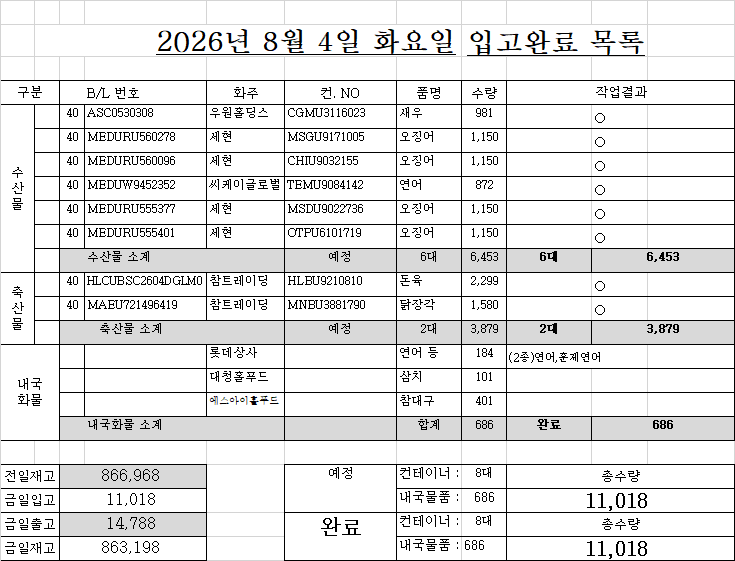
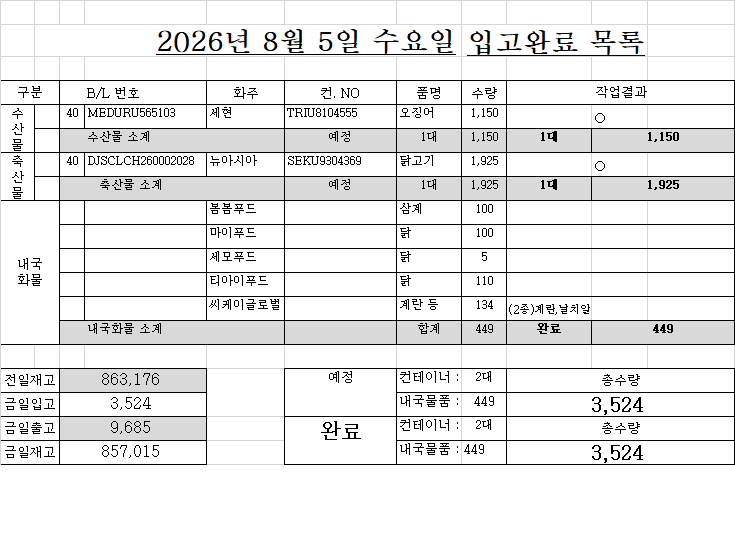
0805

diff --git a/list.html b/list.html
@@ -171,83 +171,91 @@
 <!-- ★★★★★★ 따로 빼 놔야한다. 복붙하면 첫칸 비어도 되는데, 여기서는 첫칸비우면 당겨진다. -->
 <!-- ★ 엑셀범위를 브라우저 textarea에 붙여넣으면 첫셀 비어도 제대로 되는데... HTML에 붙여놓은 자료는 처음셀이 비어있으면 당겨짐 -->
 <div class="d-none" id="원본text_리스트1부터w요약열까지">작성	면허	B/LNO.	화주	컨테이너NO.	품명	수량	반입NO.	입항일	구분	도착일	도착시간	구분	운도VBA	04/27 월 07:21	화찰BL	화찰 선명	화물관리번호	화찰수량	화찰중량	화찰입항	리스트시트기준열	
-1	○	MEDURU565103	세현	TRIU8104555	오징어	1,150 		8/4	1				.PNIT	면허?, CY : 부산신항국제터미널(주), 컨진행 : 입항적재화물목록 운항정보 정정, 선사 : 엠에스씨코리아(주)	MEDURU565103	MSC CHIYO	26MSCU6223I-0062-	1,150 	24,760.00 	2026.08.04	08/04 화 17:05	
-1	○	DJSCLCH260002028	뉴아시아	SEKU9304369	닭고기	1,925 		8/3	2						DJSCLCH260002028	STARSHIP URSA	26NSSLG127I-5003-	1,925 	24,640.00 	2026.08.03	조회정보	
-2	○	COSU6500880930	포쉐프	SZLU9222362	베이컨	1,918 		8/5	2				.BNCT	면허?, CY : (주)비엔씨티(CY), 컨진행 : 입항적재화물목록 심사완료, 선사 : 코스코쉬핑라인스 한국 주식회사	COSU6500880930	SEASPAN HARMONY	26COSU0067I-3006-	1,918 	17,205.84 	2026.08.05	적재	57
-		AO6503164570	GK교역	OERU4528980	오징어	1,150 		8/1	1				.확인안함								4,617 	3줄
-		KMTCLCH5714614	뉴아시아	FBIU5377443	닭다리살	1,925 		8/1	2				.허치슨감만								6,156 	4줄
-		DJSCBKK260001627	뉴아시아	SEKU9303871	닭날개	1,950 		8/3	2				.허치슨감만	면허?, CY : 한국허치슨터미널(주), 컨진행 : 반입완료, 선사 : 장금상선(주)	DJSCBKK260001627	SAWASDEE SUNRISE	26SNKO2815I-5002-	1,950 	24,453.00 	2026.08.03	7,695 	5줄
-		HDMUSAOA77702501	씨제이프레시웨이㈜	HDMU5587572	닭다리살	1,960 		8/4	2				.HPNT	면허?, CY : 에이치엠엠피에스에이신항만(주), 컨진행 : 입항적재화물목록 운항정보 정정, 선사 : 에이치엠엠(주)	HDMUSAOA77702501	HYUNDAI HONGKONG	26HDMUA405I-0034-	1,960 	24,500.00 	2026.08.04	9,234 	6줄
-		COSU650049282	씨제이프레시웨이㈜	OERU4011379	닭다리살	1,960 		8/4	2				.BNCT								구분	대수
-		ONEYBKKGP0840900	참트레이딩	ONEU9012020	닭발	1,794 		8/4	2				.허치슨감만								출고입고	4주간
-		SNG0512709	(유)SM무역	CXRU1539646	오징어	1,200 		8/6	1				.BNCT								1일 7/5	9바닥줄
-		YMJAC949016871	세현	OTPU6466506	오징어	1,150 		8/6	1				.DGT								13,418 	8.7
-		MEDUWE190873	수월한	SZLU9037575	닭발	1,566 		8/6	2				.확인안함								15,579 	10.1
-		HDMUBKKA81833500	주식회사 뉴아시아 (동일)	HMMU5498344	닭날개	1,950 		8/6	2				?????,HPNT			HMM HARMONY					내국제외	
-		DJSCSGN260004159	씨코스트	SZLU2070334		869 		8/7	1				?????,BPT신선대			SAWASDEE RIGEL					구분	대수
-		NSSLBKBSC2600384	주식회사 뉴아시아 (동일)	BEAU9717767	미들윙30/45G	1,950 		8/7	2				?????,허치슨감만			STARSHIP AQUILA					수산	26 
-		NSSLBKBSC2600388	주식회사 뉴아시아 (동일)	SEKU9348773	윙스틱45/55G	1,950 		8/7	2				?????,허치슨감만			STARSHIP AQUILA					축산	51 
-		MAEUJBS317232	㈜이마트	MNBU4636170	닭다리살			8/7	2				.PNC			SKAGEN MAERSK					합계	77 
-		MEDUHI870856	수월한	TTNU8200425	닭다리살	1,958 		8/8	2				.확인안함									
-		MAEUJBS318853	수월한 주식회사	MNBU4474716	SR다리살	1,958 		8/8	2				.PNC			MAERSK VARNA					화주	대수
-		ONEYSAOG31882301	씨제이프레시웨이㈜	CXRU1350523	AU다리살	1,960 		8/8	2				.HPNT			ONE HANOI 					경태.19대	19
-		TC826071238F	우원홀딩스	WHLU7429430	새우	1,306 		8/8	1			20	(완하이).BPT감만								수월한	10
-		MEDUR3280373	㈜이마트	TEMU9314040	닭다리살			8/8	2				.PNC			MSC AURIGA					참트레이딩	7
-		MEDUR3289283	㈜이마트	MEDU9002624	닭다리살			8/8	2				.PNC			MSC AURIGA					수월한 주식회사	6
-		MAEUJBS318135	㈜이마트	MNBU3940194	닭다리살			8/8	2				.PNC			MAERSK SALTORO					뉴아시아	4
-		MAEU721415127	참트레이딩	MNBU3401340	닭장각	1,580 		8/8	2				.PNC								㈜이마트	4
-		MAEU721496408	참트레이딩	MNBU4300951	닭장각	1,580 		8/8	2				.PNC								주식회사 뉴아시아 (동일)	3
-		MAEU721496410	참트레이딩	MNBU0457330	닭장각	1,580 		8/8	2				.PNC								씨제이프레시웨이㈜	3
-		MAEU721496412	참트레이딩	SUDU6216151	닭장각	1,580 		8/8	2				.PNC								대성무역	3
-		MEDUHI880251	현대코퍼	MSGU9160743	닭다리살	1,916 		8/8	2				.확인안함								세현	2
-		MEDUHI880244	현대코퍼	MSDU9739310	닭다리살	1,916 		8/8	2				.확인안함								주식회사 뉴아시아 (수월한)	2
-		MEDUHI880251	현대코퍼레이션홀딩스㈜경기지사	MSDU9160743	LA다리살	1,916 		8/8	2				?????,확인안함			ONE MAGDALENA					현대코퍼	2
-		MAEUJBS320444	수월한	MNBU4096508	닭다리살	1,943 		8/10	2				.확인안함								마이푸드	2
-		HLCUPN4260375116	대상 주식회사	HLBU9527960	닭발	1,567 		8/11	2				.PNIT								GK교역	1
-		COSU6502721570	경태.19대	OERU4017166	오징어	1,210 		8/12	1				.BNCT								현대코퍼레이션홀딩스㈜경기지사	1
-		COSU6502721570	경태.19대	SEGU9970000	오징어	1,210 		8/12	1				.BNCT								대상 주식회사	1
-		COSU6502721570	경태.19대	OERU4306180	오징어	1,210 		8/12	1				.BNCT								씨코스트	1
-		COSU6502721570	경태.19대	SEGU9693820	오징어	1,210 		8/12	1				.BNCT								아스트로스	1
-		COSU6502721570	경태.19대	FBIU5579845	오징어	1,210 		8/12	1				.BNCT								씨케이글로벌	1
-		COSU6502721570	경태.19대	OERU4067969	오징어	1,210 		8/12	1				.BNCT								(유)SM무역	1
-		COSU6502721570	경태.19대	DFOU6135743	오징어	943 		8/12	1				.BNCT								포쉐프	1
-		COSU6502721570	경태.19대	OTPU6007256	오징어	1,210 		8/12	1				.BNCT								주식회사 아스트로스	1
-		COSU6502721570	경태.19대	OERU4288213	오징어	1,210 		8/12	1				.BNCT								우원홀딩스	1
-		COSU6502721570	경태.19대	OERU4369336	오징어	1,210 		8/12	1				.BNCT									
-		COSU6502721570	경태.19대	FBIU5348337	오징어	1,210 		8/12	1				.BNCT									
-		COSU6502721570	경태.19대	OERU4240668	오징어	1,210 		8/12	1				.BNCT									
-		COSU6502721570	경태.19대	SZLU9660292	오징어	1,210 		8/12	1				.BNCT									
-		COSU6502721570	경태.19대	FBIU5005512	오징어	1,210 		8/12	1				.BNCT									
-		COSU6502721570	경태.19대	TEMU9308392	오징어	1,210 		8/12	1				.BNCT									
-		COSU6502721570	경태.19대	TEMU9322873	오징어	1,210 		8/12	1				.BNCT									
-		COSU6502721570	경태.19대	SEGU9972086	오징어	1,210 		8/12	1				.BNCT									
-		COSU6502721570	경태.19대	SZLU9378463	오징어	1,210 		8/12	1				.BNCT									
-		COSU6502721570	경태.19대	SZLU9390833	오징어	1,210 		8/12	1				.BNCT									
-		HDMUSAOA08856500	수월한 주식회사	HMMU5484382	SR다리살	1,956 		8/14	2				.HPNT			HMM SKY						
-		HDMUSAOA54802701	아스트로스	HDMU5611576	닭다리살	1,960 		8/14	2				.HPNT									
-		MAEU721496424	참트레이딩	MNBU0613114	닭장각	1,580 		8/15	2				.PNC									
-		MAEU721515608	참트레이딩	MNBU0262719	닭장각	1,580 		8/15	2				.PNC									
-		ONEYRICGR5090700	씨케이글로벌	ONEU9254527	북방대합	1,500 		8/17	1													
+1	○	DJSCLCH260002232	뉴아시아	SEKU9304918	닭날개	1,925 		8/3	2				ACE.BPT신선대		DJSCLCH260002232	STARSHIP URSA	26NSSLG127I-5007-	1,925 	24,640.00 	2026.08.03	08/05 수 16:16	
+1	○	HDMUSAOA22339100	마이푸드	TLLU1089010	닭장각	1,580 		8/4	2				EZ신항.HPNT	면허?, CY : 에이치엠엠피에스에이신항만(주), 컨진행 : 반입완료, 선사 : 에이치엠엠(주)	HDMUSAOA22339100	HYUNDAI HONGKONG	26HDMUA405I-0115-	1,580 	24,600.00 	2026.08.04	조회정보	
+1		HDMUSAOA77702501	씨제이프레시웨이㈜	HDMU5587572	닭다리살	1,960 		8/4	2				동원오더.HPNT	면허?, CY : 에이치엠엠피에스에이신항만(주), 컨진행 : 반입완료, 선사 : 에이치엠엠(주)	HDMUSAOA77702501	HYUNDAI HONGKONG	26HDMUA405I-0034-	1,960 	24,500.00 	2026.08.04	적재	57
+1	○	COSU6500880930	포쉐프	SZLU9222362	베이컨	1,918 		8/5	2				금경.BNCT	(주)제이트랜스, CY : (주)비엔씨티(CY), 컨진행 : 하선신고 수리완료, 선사 : 코스코쉬핑라인스 한국 주식회사	COSU6500880930	SEASPAN HARMONY	26COSU0067I-3006-	1,918 	17,205.84 	2026.08.05	4,617 	3줄
+2	○	ONEYBKKGP0840900	참트레이딩	ONEU9012020	닭발	1,794 		8/6	2				.허치슨감만	면허?, CY : 한국허치슨터미널(주), 컨진행 : 입항적재화물목록 심사완료, 선사 : 양밍한국(주)	ONEYBKKGP0840900	YM COOPERATION	26YMJA0119I-5049-	1,794 	22,604.40 	2026.08.06	6,156 	4줄
+		AO6503164570	GK교역	OERU4528980	오징어	1,150 		8/1	1				.확인안함								7,695 	5줄
+		KMTCLCH5714614	뉴아시아	FBIU5377443	닭다리살	1,925 		8/1	2				.허치슨감만								9,234 	6줄
+		DJSCBKK260001627	뉴아시아	SEKU9303871	닭날개	1,950 		8/3	2				.허치슨감만	면허?, CY : 한국허치슨터미널(주), 컨진행 : 반입완료, 선사 : 장금상선(주)	DJSCBKK260001627	SAWASDEE SUNRISE	26SNKO2815I-5002-	1,950 	24,453.00 	2026.08.03	구분	대수
+		DJSCLCH260002031	뉴아시아	OTPU6564267	닭다리살	1,925 		8/3	2				.BPT감만	면허?, CY : 신선대감만터미널(주) 감만CY, 컨진행 : 반입완료, 선사 : 범주해운(주)	DJSCLCH260002031	PANCON BRIDGE	26PCLUBK10I-5002-	1,925 	24,640.00 	2026.08.03	출고입고	4주간
+		KMTCLCH5727367	뉴아시아	FBIU5376128	닭날개	1,925 		8/5	2				.BPT신선대	면허?, CY : 신선대감만터미널(주) 신선대CY, 컨진행 : 항내 정박장소 이동신고, 선사 : 장금상선(주)	KMTCLCH5727367	SAWASDEE RIGEL	26SNKO2876I-0008-	1,925 	24,640.00 	2026.08.05	1일 7/5	9바닥줄
+		MEDUR3299761	마이푸드	MSDU9759235	닭다리살	1,939 		8/5	2				.PNIT	면허?, CY : 부산신항국제터미널(주), 컨진행 : 입항적재화물목록 운항정보 정정, 선사 : 엠에스씨코리아(주)	MEDUR3299761	MSC AURIGA	26MSCU3248I-0019-	1,939 	24,277.39 	2026.08.05	13,382 	8.7
+		DJSCSGN260004159	씨코스트	SZLU2070334		869 		8/5	1				.BPT신선대	면허?, CY : 신선대감만터미널(주) 신선대CY, 컨진행 : 항내 정박장소 이동신고, 선사 : 장금상선(주)	DJSCSGN260004159	SAWASDEE RIGEL	26SNKO2876I-5201-	869 	10,119.76 	2026.08.05	14,869 	9.7
+		MEDUR3280373	㈜이마트	TEMU9314040	닭다리살	1,958 		8/5	2				.PNIT	면허?, CY : 부산신항국제터미널(주), 컨진행 : 입항적재화물목록 운항정보 정정, 선사 : 엠에스씨코리아(주)	MEDUR3280373	MSC AURIGA	26MSCU3248I-0006-	1,958 	24,450.73 	2026.08.05	내국제외	
+		MEDUR3289283	㈜이마트	MEDU9002624	닭다리살	1,958 		8/5	2				.PNIT	면허?, CY : 부산신항국제터미널(주), 컨진행 : 입항적재화물목록 운항정보 정정, 선사 : 엠에스씨코리아(주)	MEDUR3289283	MSC AURIGA	26MSCU3248I-0007-	1,958 	24,450.69 	2026.08.05	구분	대수
+		EGLV001600300951	바다사랑	EMCU5702780	오징어	1,340 		8/6	1				.BCT								수산	30 
+		YMJAC949016871	세현	OTPU6466506	오징어	1,150 		8/6	1				.DGT	면허?, CY : 동원글로벌터미널부산(주), 컨진행 : 입항적재화물목록 제출, 선사 : 양밍한국(주)	YMJAC949016871	YM SUCCESS	26YMJA0118I-4001-	1,150 	24,890.00 	2026.08.06	축산	55 
+		MEDUWE190873	수월한	SZLU9037575	닭발	1,566 		8/6	2				.확인안함								합계	85 
+		TC826071305F	우원홀딩스	SKRU2500689	새우	800 		8/6	1			20	(흥아).BPT신선대	면허?, CY : 신선대감만터미널(주) 신선대CY, 컨진행 : 하선신고 수리완료, 선사 : 범주해운(주), 포딩 : 주식회사 엠앤씨엘	TC826071305F	PANCON CHAMPION	26PCLUCK07I-1001-0001	800 	9,920.00 	2026.08.06		
+		SNG0512709	(유)SM무역	CXRU1539646	오징어	1,200 		8/7	1				.BNCT								화주	대수
+		XMN6A1459600	CHC	FBIU5801588		1,800 		8/7	1				?????(SM),허치슨감만			SM TOKYO					경태.19대	19
+		HDMUSGNA40146300	우원홀딩스	TEXU9030290	새우	752 		8/7	1			20	.HPNT								수월한	11
+		HDMUBKKA81833500	주식회사 뉴아시아 (동일)	HMMU5498344	닭날개	1,950 		8/7	2				.HPNT			HMM HARMONY					참트레이딩	7
+		KMTCLCH5720645	뉴아시아	FBIU5945477	닭날개	1,940 		8/8	2				.허치슨감만								수월한 주식회사	6
+		MAEUJBS318853	수월한 주식회사	MNBU4474716	SR다리살	1,958 		8/8	2				.PNC			MAERSK VARNA					뉴아시아	6
+		TC826071295F	우원홀딩스	SZLU2048813	새우	1,000 		8/8	1			20	(인터아시).BPT감만								㈜이마트	4
+		NSSLBKBSC2600384	주식회사 뉴아시아 (동일)	BEAU9717767	미들윙30/45G	1,950 		8/8	2				.허치슨감만			STARSHIP AQUILA					우원홀딩스	4
+		NSSLBKBSC2600388	주식회사 뉴아시아 (동일)	SEKU9348773	윙스틱45/55G	1,950 		8/8	2				.허치슨감만			STARSHIP AQUILA					대성무역	4
+		MEDUHI880251	현대코퍼	MSDU9160743	닭다리살	1,916 		8/8	2				.확인안함								주식회사 뉴아시아 (동일)	3
+		MEDUHI870856	수월한	TTNU8200425	닭다리살	1,958 		8/9	2				.PNC								씨제이프레시웨이㈜	3
+		ONEYSAOG31882301	씨제이프레시웨이㈜	CXRU1350523	AU다리살	1,960 		8/9	2				.HPNT			ONE HANOI 					주식회사 뉴아시아 (수월한)	2
+		TC826071238F	우원홀딩스	WHLU7429430	새우	1,306 		8/9	1			20	(완하이).BPT감만								마이푸드	2
+		MAEUJBS317232	㈜이마트	MNBU4636170	닭다리살			8/9	2				.PNC			SKAGEN MAERSK					현대코퍼	2
+		MEDUHI880244	현대코퍼	MSDU9739310	닭다리살	1,916 		8/9	2				.PNC								CHC	1
+		MEDUHI880251	현대코퍼레이션홀딩스㈜경기지사	MSDU9160743	LA다리살	1,916 		8/9	2				.PNC			ONE MAGDALENA					포쉐프	1
+		MAEU721415127	참트레이딩	MNBU3401340	닭장각	1,580 		8/10	2				.PNC								바다사랑	1
+		COSU650049282	씨제이프레시웨이㈜	OERU4011379	닭다리살	1,960 		8/13	2				.BNCT								세현	1
+		MAEUJBS318135	㈜이마트	MNBU3940194	닭다리살			8/13	2				.PNC			MAERSK SALTORO					현대코퍼레이션홀딩스㈜경기지사	1
+		MAEU721496408	참트레이딩	MNBU4300951	닭장각	1,580 		8/13	2				.PNC								대상 주식회사	1
+		MAEU721496410	참트레이딩	MNBU0457330	닭장각	1,580 		8/13	2				.PNC								아스트로스	1
+		MAEU721496412	참트레이딩	SUDU6216151	닭장각	1,580 		8/13	2				.PNC								씨케이글로벌	1
+		HLCUPN4260375116	대상 주식회사	HLBU9527960	닭발	1,567 		8/14	2				.PNIT								GK교역	1
+		HDMUSAOA54802701	아스트로스	HDMU5611576	닭다리살	1,960 		8/14	2				.HPNT								씨코스트	1
+		MAEU721496424	참트레이딩	MNBU0613114	닭장각	1,580 		8/15	2				.PNC								(유)SM무역	1
+		MAEU721515608	참트레이딩	MNBU0262719	닭장각	1,580 		8/15	2				.PNC								주식회사 아스트로스	1
+		ONEYRICGR5090700	씨케이글로벌	ONEU9254527	북방대합	1,500 		8/18	1				.HJNC									
 		MAEUJBS320701	수월한	MNBU0207408	닭다리살	1,958 		8/21	2				.PNC									
 		MEDUWE206646	주식회사 뉴아시아 (수월한)	TEMU9315473	닭다리살	1,870 		8/21	2				.확인안함			MSC SHREYA B						
 		MEDUWE206612	주식회사 뉴아시아 (수월한)	MEDUWE206612	닭다리살	1,939 		8/21	2				.확인안함			MSC SHREYA B						
-		HDMUSAOA83445311	대성무역	HMMU5495793	닭장각	1,568 		8/29	2				.확인안함									
-		MEDUHI943216	수월한	CHIU9032957	닭다리살	1,958 		8/29	2				.확인안함									
-		MEDUHI943208	수월한	SZLU9590024	닭다리살	1,939 		8/29	2				.확인안함									
+		COSU6502721570	경태.19대	OERU4017166	오징어	1,210 		8/22	1				.BNCT									
+		COSU6502721570	경태.19대	SEGU9970000	오징어	1,210 		8/22	1				.BNCT									
+		COSU6502721570	경태.19대	OERU4306180	오징어	1,210 		8/22	1				.BNCT									
+		COSU6502721570	경태.19대	SEGU9693820	오징어	1,210 		8/22	1				.BNCT									
+		COSU6502721570	경태.19대	FBIU5579845	오징어	1,210 		8/22	1				.BNCT									
+		COSU6502721570	경태.19대	OERU4067969	오징어	1,210 		8/22	1				.BNCT									
+		COSU6502721570	경태.19대	DFOU6135743	오징어	943 		8/22	1				.BNCT									
+		COSU6502721570	경태.19대	OTPU6007256	오징어	1,210 		8/22	1				.BNCT									
+		COSU6502721570	경태.19대	OERU4288213	오징어	1,210 		8/22	1				.BNCT									
+		COSU6502721570	경태.19대	OERU4369336	오징어	1,210 		8/22	1				.BNCT									
+		COSU6502721570	경태.19대	FBIU5348337	오징어	1,210 		8/22	1				.BNCT									
+		COSU6502721570	경태.19대	OERU4240668	오징어	1,210 		8/22	1				.BNCT									
+		COSU6502721570	경태.19대	SZLU9660292	오징어	1,210 		8/22	1				.BNCT									
+		COSU6502721570	경태.19대	FBIU5005512	오징어	1,210 		8/22	1				.BNCT									
+		COSU6502721570	경태.19대	TEMU9308392	오징어	1,210 		8/22	1				.BNCT									
+		COSU6502721570	경태.19대	TEMU9322873	오징어	1,210 		8/22	1				.BNCT									
+		COSU6502721570	경태.19대	SEGU9972086	오징어	1,210 		8/22	1				.BNCT									
+		COSU6502721570	경태.19대	SZLU9378463	오징어	1,210 		8/22	1				.BNCT									
+		COSU6502721570	경태.19대	SZLU9390833	오징어	1,210 		8/22	1				.BNCT									
+		HDMUSAOA83445311	대성무역	HMMU5495793	닭장각	1,568 		8/24	2				.확인안함									
+		MAEUJBS320444	수월한	MNBU4096508	닭다리살	1,943 		8/24	2				.확인안함									
+		HDMUSAOA08856500	수월한 주식회사	HMMU5484382	SR다리살	1,956 		8/24	2				.HPNT			HMM SKY						
+		MEDUHI943216	수월한	CHIU9032957	닭다리살	1,958 		8/25	2				.확인안함									
+		MEDUHI943208	수월한	SZLU9590024	닭다리살	1,939 		8/25	2				.확인안함									
 		MAEUJBS321017	수월한	MNBU0526107	닭다리살	1,958 		8/29	2				.확인안함									
 		MAEUJBS320854	수월한	MNBU0599736	닭다리살	1,950 		8/29	2				.확인안함									
 		MAEUJBS323376	수월한	MNBU0481471	닭발	1,551 		9/4	2				.확인안함									
-		ONEYSAOG38291403	대성무역	SZLU9740079	닭다리살	1,960 		9/6	2													
-		ONEYSAOG39289508	대성무역	MORU1303483	닭장각	1,568 		9/6	2													
-		MEDUWE232774	수월한	TRIU8021580	닭다리살	1,954 		9/8	2				.확인안함									
-		MAEUJBS323107	수월한 주식회사	MNBU3889662	SR조각정육	1,952 		9/10	2				.확인안함			GUNVOR MAERSK						
-		COSU6506972700	주식회사 아스트로스	OERU4170025	VI다리살	1,875 		9/10	2				.확인안함			OOCL FRANCE						
-		MAEUJBS322521	수월한 주식회사	MNBU3402959	SR조각정육25/30G	1,941 		9/12	2				.확인안함			확인안함						
-		MAEUJBS323534	수월한 주식회사	MNBU3209030	SR조각정육	1,947 		9/19	2				?????,확인안함			MAERSK SALINA						
-		MAEUJBS322768	수월한 주식회사	MNBU3886339	SR다리살	1,958 		9/24	2				?????,확인안함			MAERSK EDINBURGH						
-		KMTCLCH5720645	뉴아시아	FBIU5945477	닭날개	1,940 			2													
-		MEDUR3299761	마이푸드	MSDU9759235	닭다리살	1,939 			2													
-		HDMUSAOA22339100	마이푸드	TLLU1089010	닭장각	1,580 			2													
+		MEDUWE232774	수월한	TRIU8021580	닭다리살	1,954 		9/6	2				.확인안함									
+		ONEYSAOG38291403	대성무역	SZLU9740079	닭다리살	1,960 		9/10	2				.확인안함									
+		ONEYSAOG39289508	대성무역	MORU1303483	닭장각	1,568 		9/10	2				.확인안함									
+		HDMUSAOA83035800	수월한	HMMU5426600	닭다리살	1,845 		9/12	2				.확인안함									
+		COSU6506972700	주식회사 아스트로스	OERU4170025	VI다리살	1,875 		9/12	2				.확인안함			OOCL FRANCE						
+		MAEUJBS323107	수월한 주식회사	MNBU3889662	SR조각정육	1,952 		9/13	2				.확인안함			GUNVOR MAERSK						
+		MAEUJBS322521	수월한 주식회사	MNBU3402959	SR조각정육25/30G	1,941 		9/13	2				.확인안함			확인안함						
+		ONEYSAOG41254402	대성무역	FSCU5833518	닭장각	1,568 		9/19	2				.확인안함									
+		MAEUJBS323534	수월한 주식회사	MNBU3209030	SR조각정육	1,947 		9/20	2				.확인안함			MAERSK SALINA						
+		MAEUJBS322768	수월한 주식회사	MNBU3886339	SR다리살	1,958 		9/24	2				.확인안함			MAERSK EDINBURGH						
 </div>
 <div class="d-none" id="원본text_입항관리도크부터도착항우측까지">도크	화주	컨테이너	작업순서	상세내용 참조		운송사	물품		06/05 목 16:15	B/L	도착항	상세내용
 </div>   
